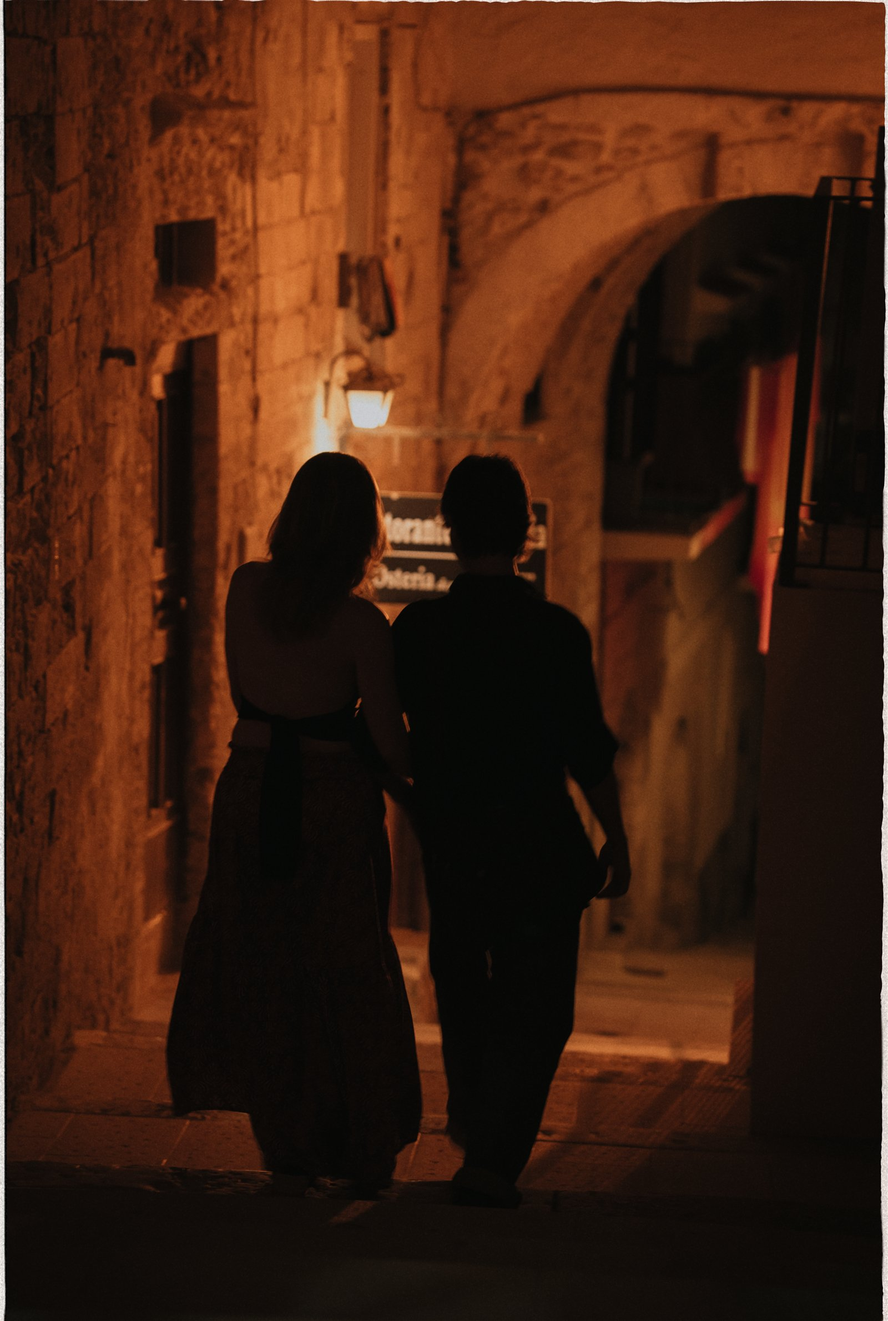
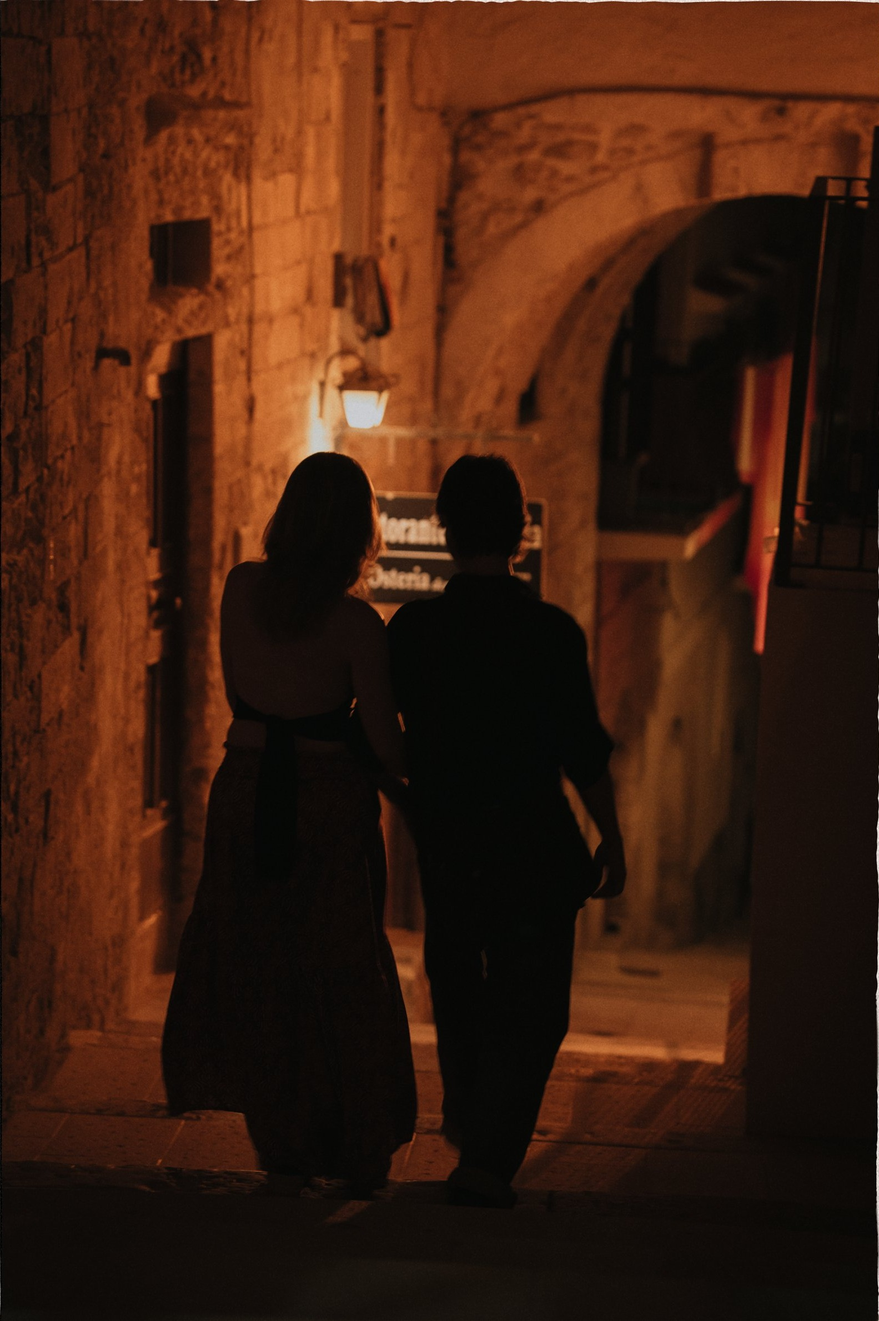
Crop gallery borders; Setz di her series plus photo slots

diff --git a/index.html b/index.html
@@ -100,15 +100,15 @@
           </article>
 
           <article data-work-card class="group md:col-span-4">
-            <div data-image-frame class="image-frame aspect-[1600/2379] overflow-hidden">
-              <img data-fallback-image class="h-full w-full object-cover" src="/work/work-4.jpg" alt="A couple silhouetted in a warm-lit stone alley at night" width="1600" height="2379" loading="lazy" decoding="async" />
+            <div data-image-frame class="image-frame aspect-[1583/2379] overflow-hidden">
+              <img data-fallback-image class="h-full w-full object-cover" src="/work/work-4.jpg" alt="A couple silhouetted in a warm-lit stone alley at night" width="1583" height="2379" loading="lazy" decoding="async" />
             </div>
             <div class="mt-4 border-t border-paper/15 pt-3 text-xs uppercase tracking-[0.14em]"><h3 class="text-amber">04 / Portrait</h3><p class="mt-2 text-paper/70">Two shadows in the old alley</p><p class="mt-1 text-xs uppercase tracking-[0.14em] text-muted">Vieste, Italy</p></div>
           </article>
 
           <article data-work-card class="group md:col-span-4">
-            <div data-image-frame class="image-frame aspect-[1600/1036] overflow-hidden">
-              <img data-fallback-image class="h-full w-full object-cover" src="/work/work-5.jpg" alt="A couple seen from behind standing in tall golden grass" width="1600" height="1036" loading="lazy" decoding="async" />
+            <div data-image-frame class="image-frame aspect-[1553/1034] overflow-hidden">
+              <img data-fallback-image class="h-full w-full object-cover" src="/work/work-5.jpg" alt="A couple seen from behind standing in tall golden grass" width="1553" height="1034" loading="lazy" decoding="async" />
             </div>
             <div class="mt-4 border-t border-paper/15 pt-3 text-xs uppercase tracking-[0.14em]"><h3 class="text-amber">05 / Portrait</h3><p class="mt-2 text-paper/70">Standing in gold</p></div>
           </article>
@@ -128,8 +128,8 @@
           </article>
 
           <article data-work-card class="group md:col-span-4">
-            <div data-image-frame class="image-frame aspect-[1600/2098] overflow-hidden">
-              <img data-fallback-image class="h-full w-full object-cover" src="/work/work-8.jpg" alt="A girl swimming underwater, silhouetted against sun rays from above" width="1600" height="2098" loading="lazy" decoding="async" />
+            <div data-image-frame class="image-frame aspect-[1577/2092] overflow-hidden">
+              <img data-fallback-image class="h-full w-full object-cover" src="/work/work-8.jpg" alt="A girl swimming underwater, silhouetted against sun rays from above" width="1577" height="2092" loading="lazy" decoding="async" />
             </div>
             <div class="mt-4 border-t border-paper/15 pt-3 text-xs uppercase tracking-[0.14em]"><h3 class="text-amber">08 / Still</h3><p class="mt-2 text-paper/70">Backlit underwater study</p><p class="mt-1 text-xs uppercase tracking-[0.14em] text-muted">Crete, Greece</p></div>
           </article>
@@ -168,18 +168,27 @@
         </h2>
         <div class="mt-12 grid gap-5 md:grid-cols-3">
           <article class="border border-paper/15 p-6">
-            <div class="grid aspect-[4/3] place-items-center overflow-hidden bg-ink-soft text-center">
-              <img src="/interviews/andi-knoll.jpg" alt="Portrait of Andi Knoll" width="800" height="600" loading="lazy" decoding="async" class="h-full w-full object-cover" data-fallback-image />
+            <div class="relative grid aspect-[4/3] place-items-center overflow-hidden bg-ink-soft text-center">
+              <span class="absolute inset-0 grid place-items-center px-6 text-xs uppercase tracking-[0.2em] text-paper/40">Photo coming soon</span>
+              <img src="/interviews/andi-knoll.jpg" alt="Archer FilmStudios with Andi Knoll on the set of Setz di her" width="800" height="600" loading="lazy" decoding="async" class="relative h-full w-full object-cover" data-fallback-image />
             </div>
-            <h3 class="mt-4 font-display text-2xl uppercase">Interview series</h3>
-            <p class="mt-2 text-sm leading-relaxed text-paper/70">Conversations with known faces from Austrian film and television — including Andi Knoll — about their craft, their beginnings, and what they learned along the way.</p>
+            <h3 class="mt-4 font-display text-2xl uppercase">Setz di her</h3>
+            <p class="mt-2 text-sm leading-relaxed text-paper/70">Our interview series “Setz di her” — conversations with known faces from Austrian film and television, including Andi Knoll, about their craft, their beginnings, and what they learned along the way.</p>
           </article>
           <article class="border border-paper/15 p-6">
-            <h3 class="mt-0 font-display text-2xl uppercase">Short film productions</h3>
+            <div class="relative grid aspect-[4/3] place-items-center overflow-hidden bg-ink-soft text-center">
+              <span class="absolute inset-0 grid place-items-center px-6 text-xs uppercase tracking-[0.2em] text-paper/40">Photo coming soon</span>
+              <img src="/interviews/short-films.jpg" alt="Behind the scenes of an Archer FilmStudios short film production" width="800" height="600" loading="lazy" decoding="async" class="relative h-full w-full object-cover" data-fallback-image />
+            </div>
+            <h3 class="mt-4 font-display text-2xl uppercase">Short film productions</h3>
             <p class="mt-2 text-sm leading-relaxed text-paper/70">From the first idea to the premiere: we write, shoot, and edit short films together — everyone finds a role, from camera and sound to directing and editing.</p>
           </article>
           <article class="border border-paper/15 p-6">
-            <h3 class="mt-0 font-display text-2xl uppercase">Trips &amp; photo walks</h3>
+            <div class="relative grid aspect-[4/3] place-items-center overflow-hidden bg-ink-soft text-center">
+              <span class="absolute inset-0 grid place-items-center px-6 text-xs uppercase tracking-[0.2em] text-paper/40">Photo coming soon</span>
+              <img src="/interviews/trips.jpg" alt="Archer FilmStudios members on a photo trip" width="800" height="600" loading="lazy" decoding="async" class="relative h-full w-full object-cover" data-fallback-image />
+            </div>
+            <h3 class="mt-4 font-display text-2xl uppercase">Trips &amp; photo walks</h3>
             <p class="mt-2 text-sm leading-relaxed text-paper/70">Joint trips across Austria and abroad, regular photo walks, and exhibitions of our work — filmmaking and photography, side by side.</p>
           </article>
         </div>
